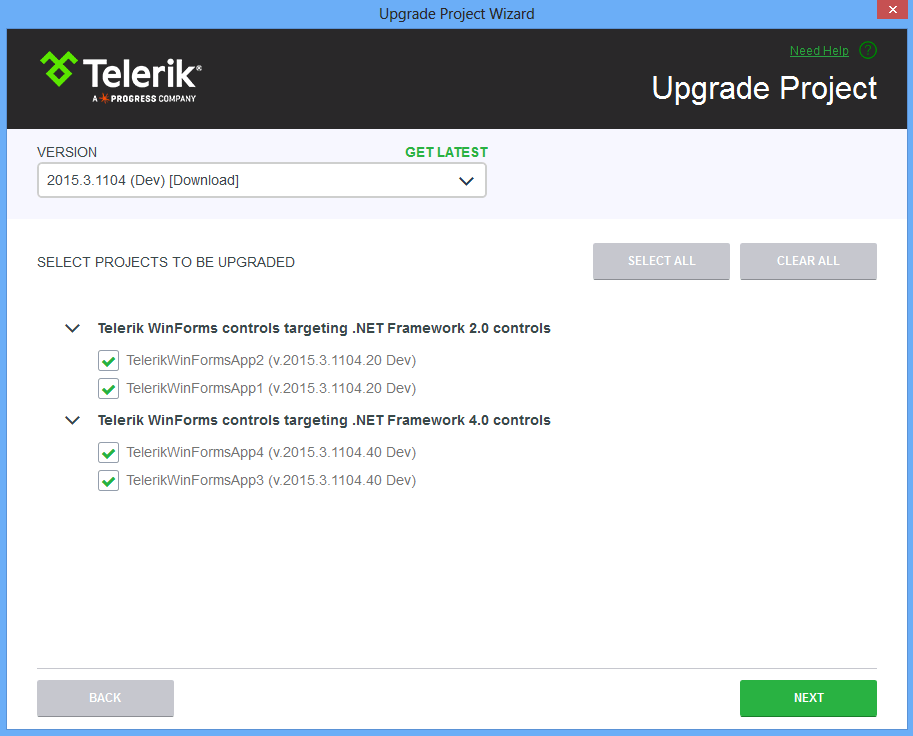
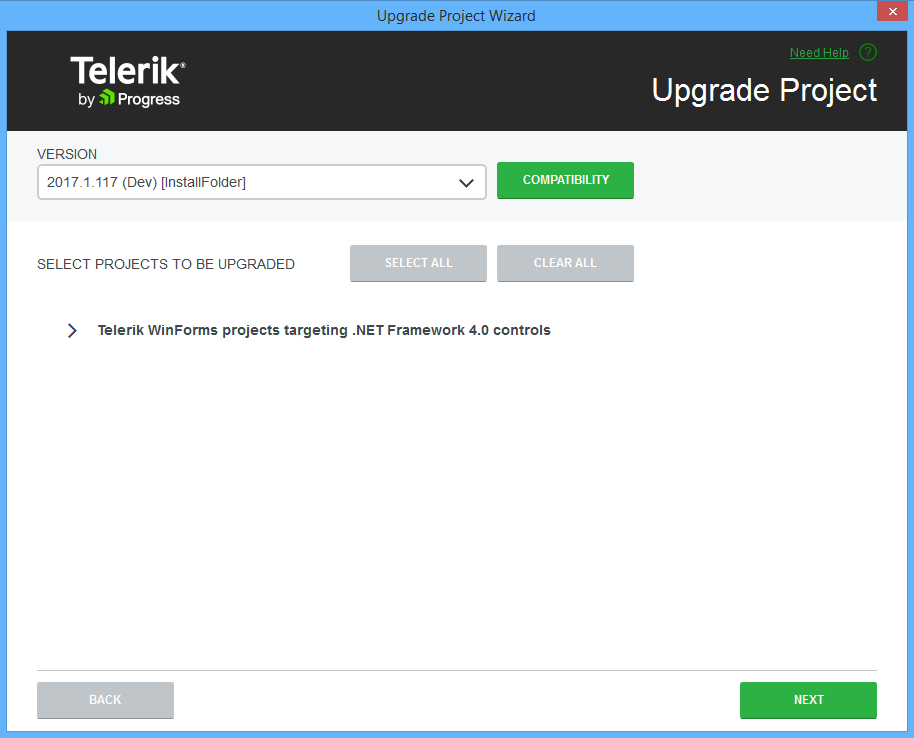
Added Compatibility button information. Updated upgrade wizard screenshot in relation with API analyzer button.

diff --git a/installation-deployment-and-distribution/visual-studio-extensions/upgrade-project.md b/installation-deployment-and-distribution/visual-studio-extensions/upgrade-project.md
@@ -11,7 +11,7 @@ previous_url: installation-deployment-and-distribution-vsx-upgrade-wizard,/devto
 
 # Upgrade project
 
-## 
+##
 
 An important feature in the Visual Studio Extensions is the __Project Upgrade Wizard__.
 
@@ -30,19 +30,19 @@ In addition to the pure assembly reference change, the upgrade wizard provides s
 * Current project backup.
 
 On the first step the wizard provides basic update process information:
- 
+
 ![installation-deployment-and-distribution-vsx-upgrade-project 001](images/installation-deployment-and-distribution-vsx-upgrade-project001.png)
 
-On the next step the wizard lists all projects from the solution, which use Telerik UI for WinForms. You can choose which projects will be updated (it is recommended to upgrade all projects to the chosen version, not just part of them) and the version which they will be upgraded to:
+On the next step the wizard lists all projects from the solution, which use Telerik UI for WinForms. You can choose which projects will be updated (it is recommended to upgrade all projects to the chosen version, not just part of them) and the version which they will be upgraded to. The Compatibility button will invoke the [Upgrade API Analyzer tool](http://docs.telerik.com/devtools/winforms/api-analyzer):
 
 ![installation-deployment-and-distribution-vsx-upgrade-project 002](images/installation-deployment-and-distribution-vsx-upgrade-project002.png)
 
 The next screen allows you to update the Visual Studio Toolbox with the newly selected controls, so that you avoid accidental reference change during a control drag and drop, as well as creating a backup of your project:
- 
+
 ![installation-deployment-and-distribution-vsx-upgrade-project 003](images/installation-deployment-and-distribution-vsx-upgrade-project003.png)
 
 Notes:
- 
+
 * The Telerik UI for WinForms distribution selection screen lists all the versions that can be detected automatically. These are versions, installed by using the Windows Installer MSI package, versions, downloaded by the Upgrade Wizard and versions, available in the GAC. Hotfixes, downloaded manually cannot be detected.
 
 * You can use the __GET LATEST__ button to access the Latest Version Acquirer and download the latest available version on our website.
